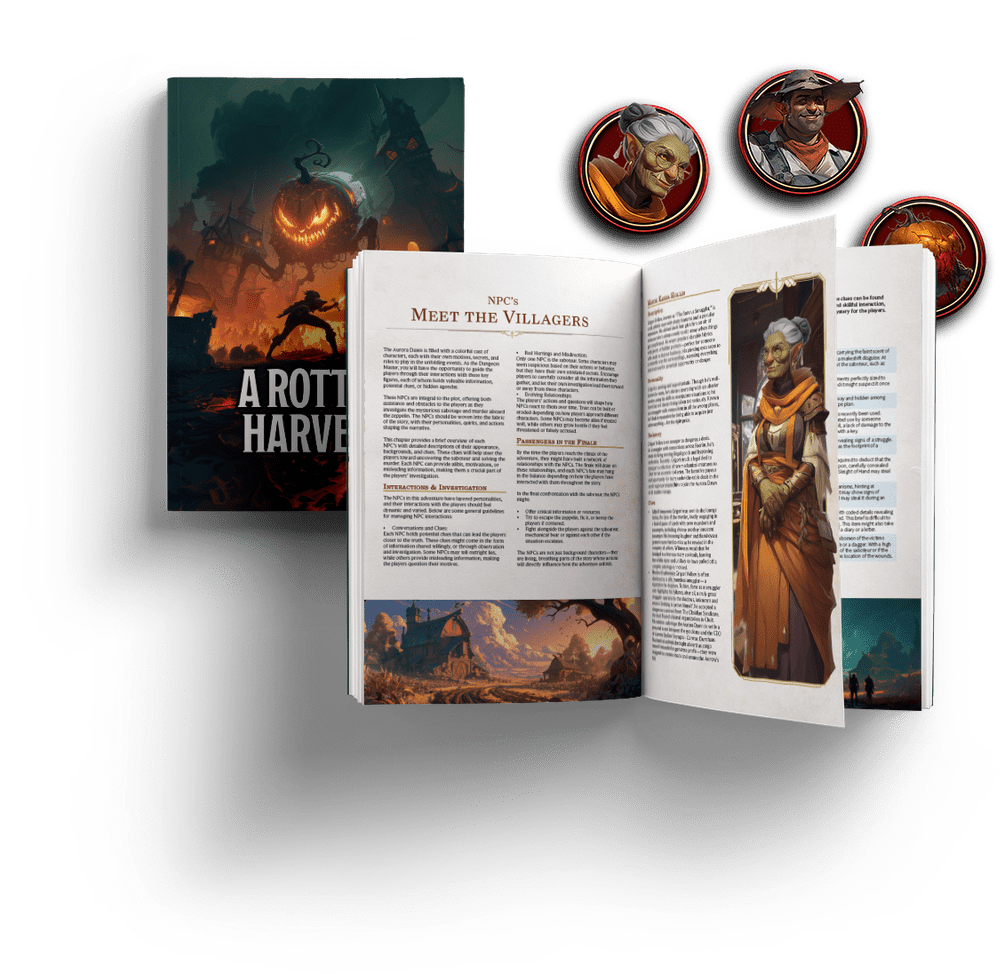
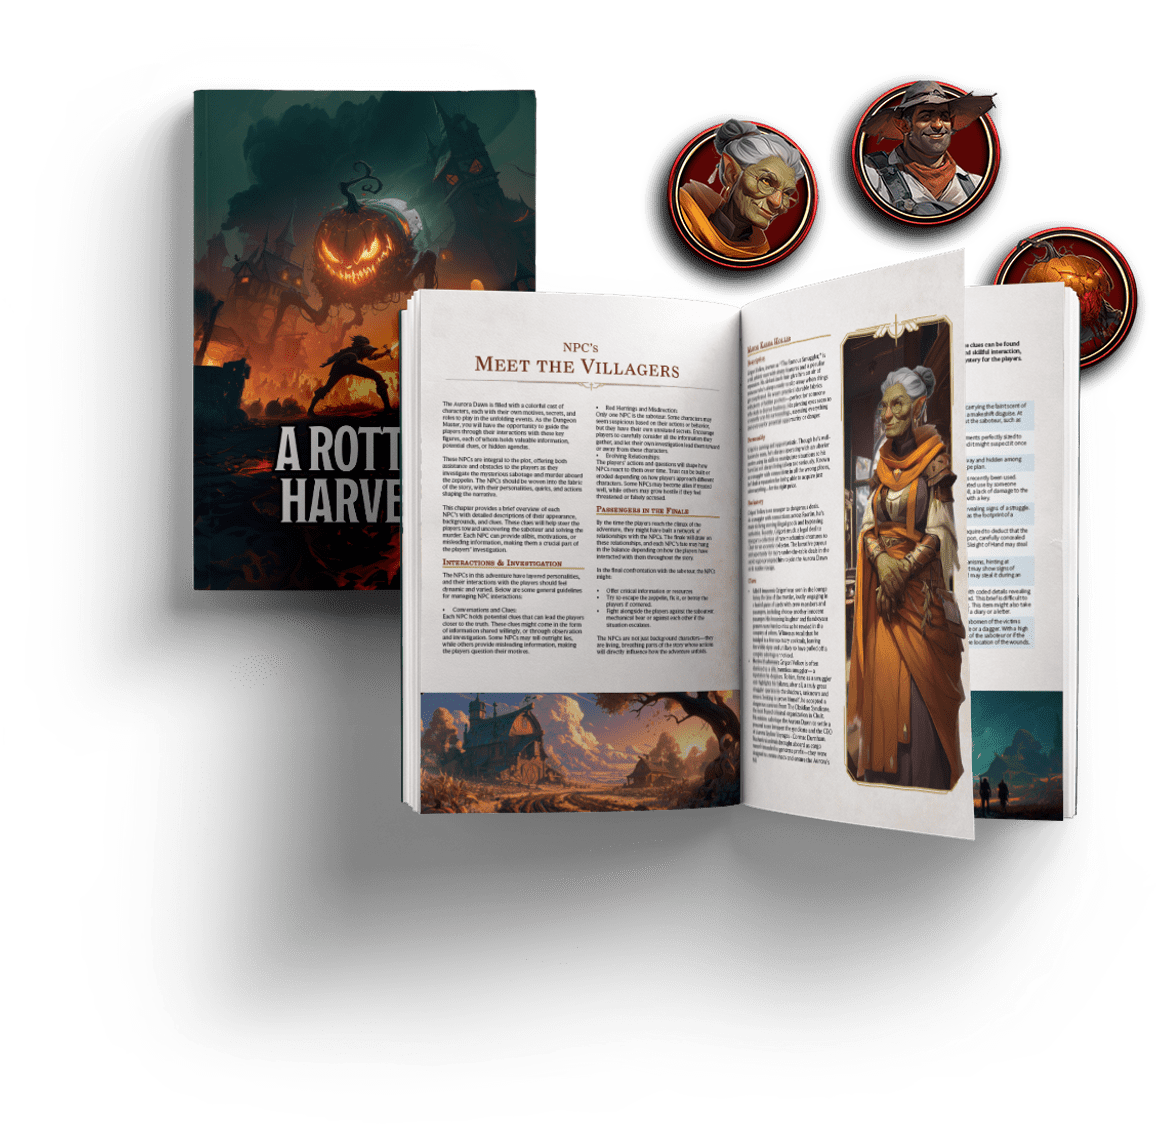
Fix PageSpeed-flagged LCP priority and mockup image oversizing
Preloads the hero's CSS background-image (the page's LCP element) with
fetchpriority="high", since that attribute can't be set on a
background-image directly. Also resizes Paperback-Book-Mockup.png to
match its actual rendered size, which the previous compression pass
under-measured (only checked the desktop width, missing that the
mobile responsive sizing peaks larger than desktop right before the
860px breakpoint).

diff --git a/rotten-harvest.html b/rotten-harvest.html
@@ -25,6 +25,15 @@
 <title>A Rotten Harvest — A Spooky D&D 5E One-Shot | Crits & Crafts</title>
 <meta name="description" content="A Halloween-themed one-shot adventure for D&D 5E, low-level and ready to play in a single session. Sign up to be notified when the Kickstarter launches.">
 
+<!-- The hero's CSS background-image is this page's LCP element (a
+     full-bleed background image is a bigger painted area than the H1 text
+     next to it), but fetchpriority can't be set on a CSS background-image
+     directly — this preload is the standard way to get the same
+     high-priority-fetch effect for one. Placed early in <head>, before
+     the font/stylesheet links, so the browser starts fetching it
+     immediately rather than after those. -->
+<link rel="preload" as="image" href="Images/A Rotten Harvest/Cover_image-Harvest.webp" fetchpriority="high" type="image/webp">
+
 <!-- Canonical + Open Graph / Twitter share tags -->
 <link rel="canonical" href="https://critscrafts.com/rotten-harvest">
 <meta property="og:type" content="website">
